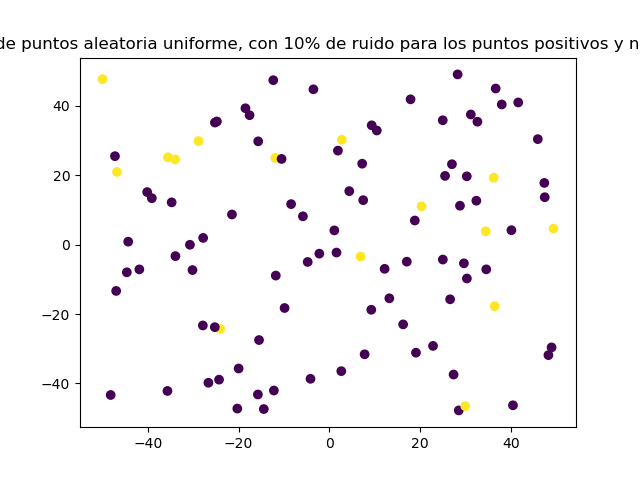
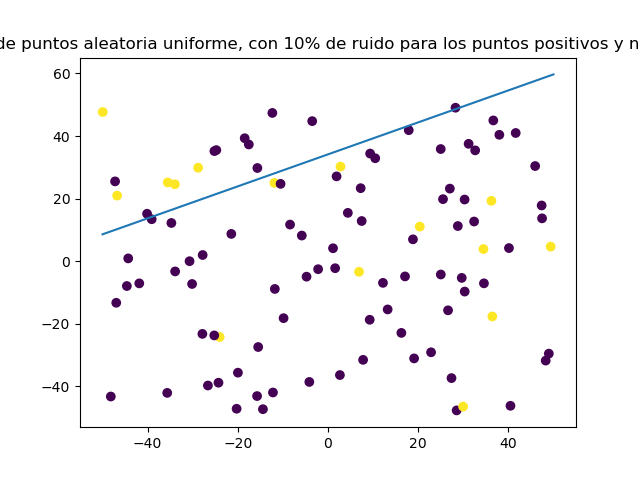
proof of the error of the line

diff --git a/P2/practica 2.py b/P2/practica 2.py
@@ -157,6 +157,12 @@ tag_noise = noise(tag,0.1)
 fig2a = plt.figure()
 ax2a = fig2a.add_subplot()
 ax2a.scatter(x[:,0],x[:,1],c=tag_noise)
+#calculate the perfect parting line
+X = np.linspace(-50, 50, tag_noise.size)
+#solves the function for the variable Y
+#f(x,y) = y - ax -b
+Y = (a*X) + b
+ax2a.plot(X, Y)
 ax2a.set_title('Nube de puntos aleatoria uniforme, con 10% de ruido para los puntos positivos y negativos')
 
 input("\n--- Pulsar tecla para continuar ---\n")
